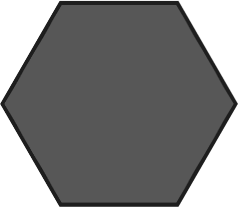
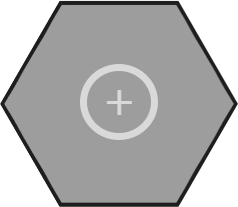
Various changes

diff --git a/src/components/Sidebar.vue b/src/components/Sidebar.vue
@@ -1,58 +1,63 @@
 <script setup>
-    import { useEditorStore } from '@/stores/editor'
-    import { useHexesStore } from '@/stores/hexes'
-    import TextEditor from '@/components/TextEditor.vue'
+import { useEditorStore } from "@/stores/editor";
+import { useHexesStore } from "@/stores/hexes";
+import TextEditor from "@/components/TextEditor.vue";
 
+const es = useEditorStore();
+const hs = useHexesStore();
 
-    const es = useEditorStore();
-    const hs = useHexesStore();
-
-    const activeHex = hs.activeHex
+const activeHex = hs.activeHex;
 </script>
 
 <template>
-    <button class="button" @click="hs.makeHexForTesting(es.activeRow)">Make a hex</button>
-    <input class="input" v-model="es.activeRow"/>
-    <button class="button" @click="hs.initializeMapForTesting">Set up 8x8 blank hexes</button>
-    <div class="card">
-        <header class="card-header">
-            <div class="media-left">
-                <figure class="image is-64x64">
-                    <img v-bind="{ src: es.terrainToImage[hs.activeHex(es.activeHexID).terrain].file }">
-                </figure>
-                </div>
-            <p class="modal-card-title">{{es.title}}</p>
+  <button class="button" @click="hs.makeHexForTesting(es.activeRow)">Make a hex</button>
+  <input class="input" v-model="es.activeRow" />
+  <button class="button" @click="hs.initializeMapForTesting">
+    Set up 8x8 blank hexes
+  </button>
+  <button class="button" @click="es.deselectAllHexes">Deselect all</button>
+  <div class="card">
+    <header class="card-header">
+      <div class="media-left">
+        <figure class="image is-64x64">
+          <img v-bind="{ src: es.activeHexImage }" />
+        </figure>
+      </div>
+      <p class="modal-card-title">{{ es.title }}</p>
+    </header>
+    <div class="card-content">
+      <div class="card" v-if="es.selectedHexCount==1">
+        <header class="card-header has-background-primary">
+          <p class="card-header-title">Hex Details</p>
         </header>
         <div class="card-content">
-            <div class="card">
-                <header class="card-header has-background-primary">
-                    <p class="card-header-title">
-                        Hex Details
-                    </p>
-                </header>
-                <div class="card-content">
-                    <TextEditor v-model="activeHex(es.activeHexID).content" />
-                </div>
-            </div>
-            <div class="card">
-                <header class="card-header has-background-primary" @click="es.toggleSection('terrain')">
-                    <p class="card-header-title">
-                        Terrain
-                    </p>
-                    <i class="fa fa-angle-down"></i>
-                </header>
-                <div class="card-content" v-bind:class="{'is-hidden': es.terrainSectionHidden}">
-                    <div class="columns is-multiline">
-                        <div class="box" 
-                            v-for="(terrainProperties, terrainName) in es.terrainToImage"
-                            v-bind:class="{ 'has-background-light': terrainProperties.selected }"
-                            @click="es.selectTerrain(terrainName)"
-                            >
-                            <img class="terrain-picker-hex" v-bind="{ src: terrainProperties.file }"/>
-                        </div>
-                    </div>
-                </div>
-            </div>
+          <TextEditor
+            v-model="activeHex(es.activeHexes[0]).content"
+            v-bind:editable="es.activeHexes.length == 1"
+          />
         </div>
+      </div>
+      <div class="card">
+        <header
+          class="card-header has-background-primary"
+          @click="es.toggleSection('terrain')"
+        >
+          <p class="card-header-title">Terrain</p>
+          <i class="fa fa-angle-down"></i>
+        </header>
+        <div class="card-content" v-bind:class="{ 'is-hidden': es.terrainSectionHidden }">
+          <div class="columns is-multiline">
+            <div
+              class="box"
+              v-for="(terrainProperties, terrainName) in es.terrainToImage"
+              v-bind:class="{ 'has-background-light': terrainProperties.selected }"
+              @click="es.selectTerrain(terrainName)"
+            >
+              <img class="terrain-picker-hex" v-bind="{ src: terrainProperties.file }" />
+            </div>
+          </div>
+        </div>
+      </div>
     </div>
+  </div>
 </template>

diff --git a/src/stores/editor.js b/src/stores/editor.js
@@ -5,12 +5,7 @@ import json from '@/assets/hexConfig.json';
 export const useEditorStore = defineStore({
     id: 'editor',
     state: () => ({
-        activeHex: {
-            id: "0-0",
-            terrain: 'Default',
-            icons: null
-        },
-        activeHexID: "1-1",
+        activeHexes: ["1-1"],
         activeRow: 1,
         selectedTerrain: null,
         seletedIcons: null,
@@ -18,28 +13,62 @@ export const useEditorStore = defineStore({
         textSectionHidden: false,
         terrainSectionHidden: false,
         iconsSectionHidden: false,
-        terrainToImage: json.terrainToImage
+        terrainToImage: json.terrainToImage,
+        multipleHexesImage: json.multiple_hexes
     }),
     getters: {
-        
+        activeHexImage(state) {
+            const hs = useHexesStore();
+            if (this.activeHexes.length == 1) {
+                return state.terrainToImage[hs.activeHex(state.activeHexes[0]).terrain].file
+            } else {
+                return state.multipleHexesImage.file
+            }
+        },
+        selectedHexCount(state) {
+            console.log(state.activeHexes.length)
+            return state.activeHexes.length;
+        }
     },
     actions: {
         selectHex(hex, event) {
             // Set used hex to clicked hex and set its properties
-            this.activeHexID = hex.id;
-            this.title = "Editing Hex ".concat(hex.id)
-            this.selectedTerrain = hex.terrain;
+            if (event.shiftKey) {
+                if (!this.activeHexes.includes(hex.id)) {
+                    this.activeHexes.push(hex.id);
+                }
+            } else {
+                this.activeHexes = [hex.id];
+            }
 
-            // Select active hex's terrain in the terrain picker
-            console.log(event.shiftKey)
-            
-            Object.values(this.terrainToImage).forEach((element) => {
-                element.selected = false;
-            })
-            this.terrainToImage[hex.terrain].selected = true;
+            if (this.activeHexes.length > 1) {
+                this.title = "Editing Hex ".concat(this.activeHexes)
+                this.selectedTerrain = null
 
-            // Select active hex's icons (incomplete)
-            this.selectedIcons = hex.icons;
+                // Select active hex's terrain in the terrain picker            
+                Object.values(this.terrainToImage).forEach((element) => {
+                    element.selected = false;
+                })
+
+                this.selectedIcons = null;
+            } else {
+                this.title = "Editing Hex ".concat(hex.id)
+                this.selectedTerrain = hex.terrain;
+
+                // Select active hex's terrain in the terrain picker            
+                Object.values(this.terrainToImage).forEach((element) => {
+                    element.selected = false;
+                })
+                this.terrainToImage[hex.terrain].selected = true;
+
+                // Select active hex's icons (incomplete)
+                this.selectedIcons = hex.icons;
+            }
+        },
+        deselectAllHexes() {
+            this.activeHexes = [];
+            this.title = "No hex selected"
+            this.selectedTerrain = null
         },
         selectTerrain(terrain) {
             const hs = useHexesStore();
@@ -48,12 +77,15 @@ export const useEditorStore = defineStore({
                 element.selected = false;
             })
             this.terrainToImage[terrain].selected = true;
-            hs.setHexTerrain(this.activeHexID, terrain)
+            this.activeHexes.forEach((element) => {
+                hs.setHexTerrain(element, terrain)
+            })
         },
         toggleSection(section) {
             if (section == 'terrain') {
                 this.terrainSectionHidden = !this.terrainSectionHidden;
             }
-        }
+        },
+        
     }
 })

diff --git a/src/components/Hexmap.vue b/src/components/Hexmap.vue
@@ -9,7 +9,7 @@
 <template>
     <div class="container">
         <div class="image-row flat-row" v-for="row in hs.hexes">
-            <div class="image-hex flat-hex" v-for="hex in row" :key="hex.id" v-bind:class="{'hex-selected': es.activeHexID == hex.id}" >
+            <div class="image-hex flat-hex" v-for="hex in row" :key="hex.id" v-bind:class="{'hex-selected': es.activeHexes.includes(hex.id)}" >
                 <img class="hex-terrain" v-bind="{ src: es.terrainToImage[hex.terrain].file }" @click="es.selectHex(hex, $event)">
                 <div class="hex-overlay"></div>
             </div>

diff --git a/src/stores/hexes.js b/src/stores/hexes.js
@@ -18,8 +18,7 @@ export const useHexesStore = defineStore({
         terrain: "Default",
         icons: null,
         selected: false
-    },
-    testVal: 'asjfklasd'
+    }
   }),
   getters: {
     countRows: (state) => state.hexes.length,
@@ -117,6 +116,7 @@ export const useHexesStore = defineStore({
         this.hexes[hexToRemove.row - 1].splice(hexToRemove.column - 1)
     },
     setHexTerrain(hexID, terrain) {
+        console.log(hexID, terrain)
         const hex = this.activeHex
         hex(hexID).terrain = terrain;
     },

diff --git a/src/assets/base.css b/src/assets/base.css
@@ -91,7 +91,7 @@ body{
 
 /* Consolidated pointy-top and flat-top image hex stuff */
 .image-row{
-  display: block;
+  display: flex;/* block;*/
   top: 60px;
 }
 
@@ -110,7 +110,6 @@ body{
 .pointy-row:nth-child(even){
   margin-left: 1px;
 }
-
 
 .image-hex{
   flex-shrink: 0; /* step 2: now the hexagons won't shrink but the horizontal scroll bar doesn't activate */
@@ -132,7 +131,7 @@ body{
   overflow: hidden;
   display: inline-block;
   margin-left: 57.5px;
-  margin-top: -47px;
+  margin-top: -42px; /*-47px;*/
 }
 
 .hex-terrain{

diff --git a/src/components/TextEditor.vue b/src/components/TextEditor.vue
@@ -21,6 +21,7 @@ export default {
   data() {
     return {
       editor: null,
+      editable: true
     }
   },
 
@@ -38,6 +39,9 @@ export default {
 
       this.editor.commands.setContent(value, false)
     },
+    editable() {
+      this.editor.setEditable(this.editable)
+    }
   },
 
   mounted() {
@@ -45,6 +49,7 @@ export default {
       extensions: [
         StarterKit,
       ],
+      editable: this.editable,
       content: this.modelValue,
       onUpdate: () => {
         // HTML

diff --git a/src/App.vue b/src/App.vue
@@ -5,6 +5,9 @@ import { useHexesStore } from '@/stores/hexes'
 import Sidebar from '@/components/Sidebar.vue'
 import Hexmap from '@/components/Hexmap.vue'
 
+const es = useEditorStore();
+const hs = useHexesStore()
+
 </script>
 
 <template>
